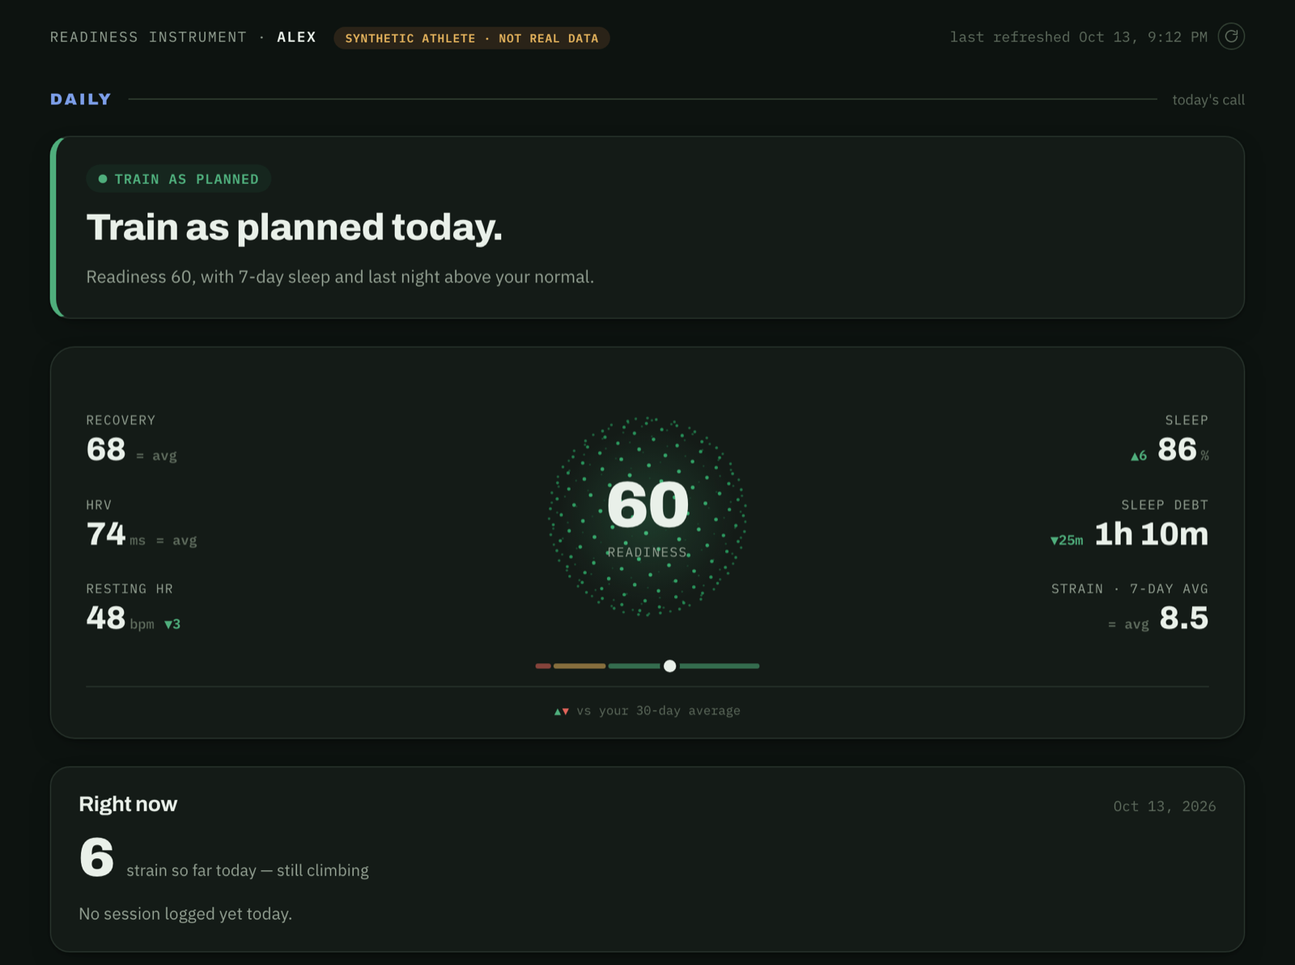
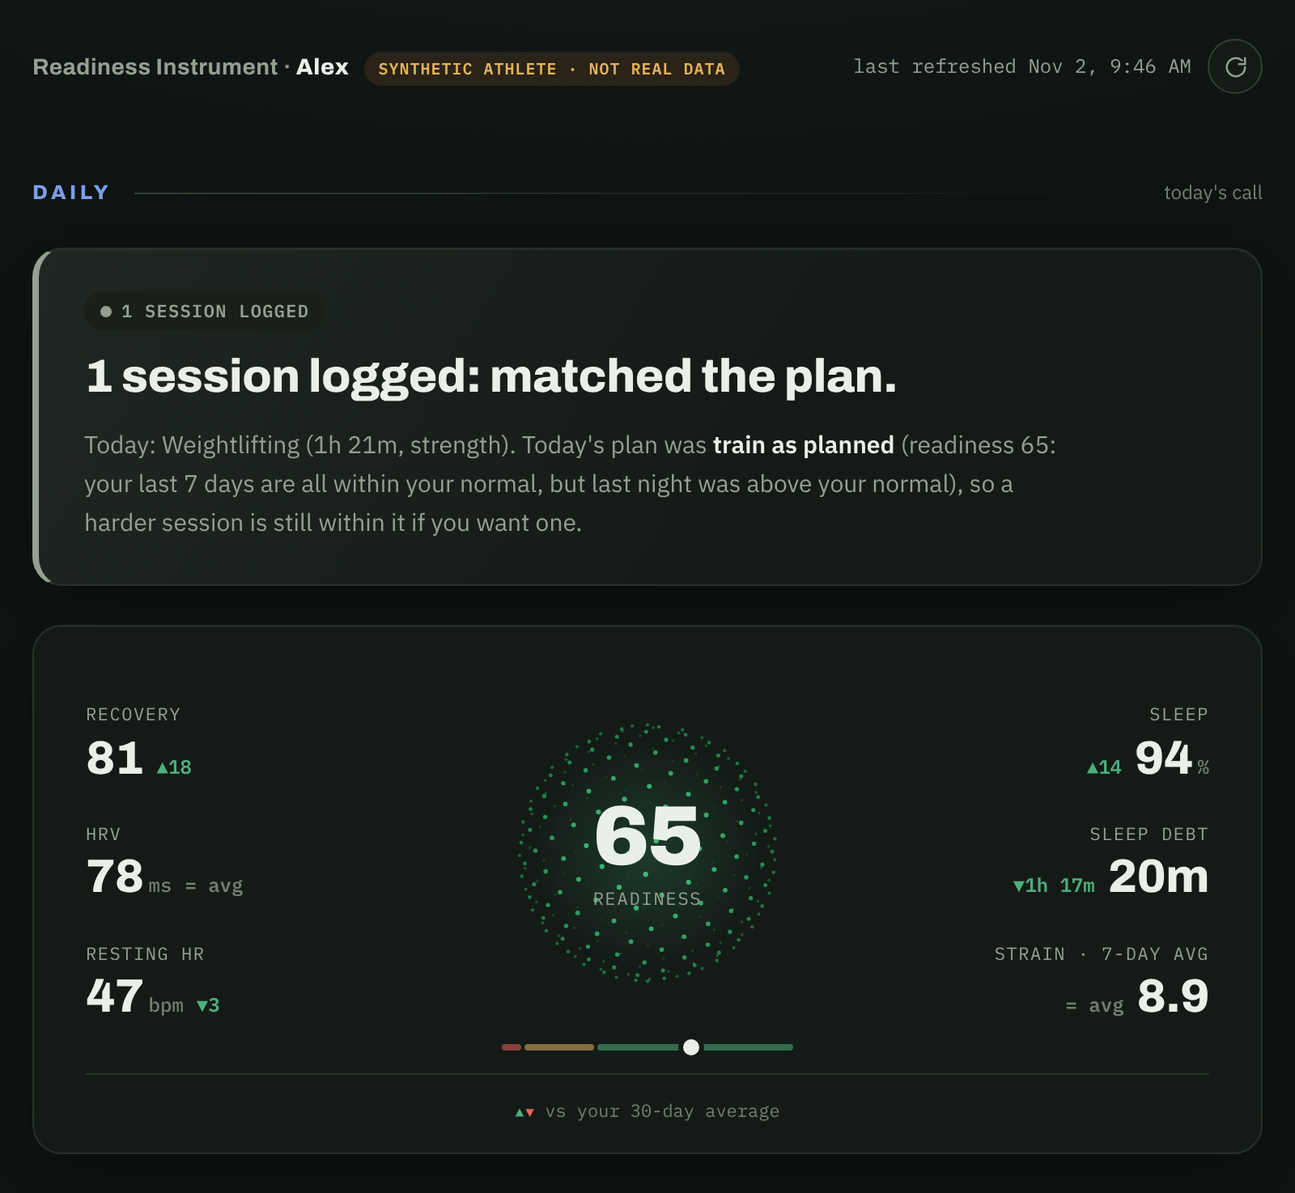
Refine the dark look: more room, larger type, softer cards
Same layout, tokens, fonts and zone colors; no new elements. Body text 15px,
section subtitles 13.5px and capped at a readable width, larger stat and record
numbers, card padding 24px with one shared radius, a quieter shadow, and a faint
accent glow behind the header. The decision card is tinted by its state color.
Faint ink is brighter so small labels are legible; tabs and the refresh button are
larger touch targets. Still no horizontal scroll at 390px. README screenshots
retaken from the synthetic athlete with reduced motion.

Claude-Session: https://claude.ai/code/session_01XKNuYiH2fS2Rk6CT6QNvY4

diff --git a/dashboard_template.html b/dashboard_template.html
@@ -11,7 +11,7 @@
     --surface-2:#182019;
     --ink:#E9F0E9;
     --ink-muted:#93A092;
-    --ink-faint:#5E6B5D;
+    --ink-faint:#717F70;
     --border:#26312A;
     --border-strong:#324033;
     --accent:#7C9EE8;
@@ -26,7 +26,9 @@
     --warn-bg:#2A2318;
     --critical:#E2645A;
     --critical-bg:#2B1A18;
-    --shadow: 0 1px 2px rgba(0,0,0,0.3), 0 8px 24px -12px rgba(0,0,0,0.5);
+    --shadow: inset 0 1px 0 rgba(233,240,233,0.035), 0 14px 34px -20px rgba(0,0,0,0.7);
+    --radius:18px;
+    --radius-sm:12px;
     --focus: 0 0 0 3px rgba(124,158,232,0.4);
   }
 
@@ -35,11 +37,13 @@
   .wrap > *{min-width:0;}
   body{
     background:var(--bg); color:var(--ink);
-    font-family:"IBM Plex Sans", ui-sans-serif, system-ui, sans-serif;
-    padding-inline:20px; padding-block:28px 64px;
+    background:radial-gradient(1100px 480px at 50% -200px, color-mix(in srgb, var(--accent) 8%, var(--bg)), var(--bg) 72%) no-repeat, var(--bg);
+    font-family:"IBM Plex Sans", ui-sans-serif, system-ui, sans-serif; font-size:15px; line-height:1.5;
+    padding-inline:20px; padding-block:32px 88px;
     -webkit-font-smoothing:antialiased;
   }
-  .wrap{max-width:960px;margin:0 auto;display:flex;flex-direction:column;gap:22px;}
+  .wrap{max-width:1000px;margin:0 auto;display:flex;flex-direction:column;gap:24px;}
+  @media (max-width:680px){body{padding-inline:16px;padding-block:22px 88px;}.wrap{gap:18px;}}
   /* one-time fade on load — a pure CSS animation, not JS-triggered, so the page
      is never at risk of staying invisible if some unrelated script fails */
   @keyframes fade-in-once{from{opacity:0;}to{opacity:1;}}
@@ -54,12 +58,12 @@
   .mono{font-family:"IBM Plex Mono", ui-monospace, monospace;}
   .tnum{font-variant-numeric:tabular-nums;}
 
-  header{display:flex;justify-content:space-between;align-items:baseline;gap:12px;flex-wrap:wrap;}
-  .eyebrow{font-family:"IBM Plex Mono", monospace;font-size:11.5px;letter-spacing:0.09em;text-transform:uppercase;color:var(--ink-muted);}
-  .eyebrow b{color:var(--ink);font-weight:600;}
+  header{display:flex;justify-content:space-between;align-items:center;gap:12px;flex-wrap:wrap;padding-bottom:6px;}
+  .eyebrow{font-family:"Archivo", sans-serif;font-weight:700;font-size:14px;letter-spacing:0.02em;color:var(--ink-muted);}
+  .eyebrow b{color:var(--ink);font-weight:800;}
   .beyond-badge.synthetic-badge{color:var(--warn);background:var(--warn-bg);margin-left:6px;}
   .beyond-badge{
-    display:inline-flex;align-items:center;font-family:"IBM Plex Mono",monospace;font-size:9.5px;font-weight:600;
+    display:inline-flex;align-items:center;font-family:"IBM Plex Mono",monospace;font-size:10px;font-weight:600;
     letter-spacing:0.05em;text-transform:uppercase;color:var(--accent);background:var(--accent-soft);
     border-radius:100px;padding:3px 9px;vertical-align:middle;
   }
@@ -71,11 +75,11 @@
   }
   .daytype-panel.open{opacity:1; transform:translateY(0) scale(1); pointer-events:auto;}
   .daytype-panel .dt-title{font-family:"Archivo",sans-serif;font-weight:800;font-size:13.5px;margin-bottom:2px;letter-spacing:-0.01em;}
-  .daytype-panel .dt-sub{font-size:11px;color:var(--ink-faint);margin-bottom:8px;}
+  .daytype-panel .dt-sub{font-size:11.5px;color:var(--ink-faint);margin-bottom:8px;}
   .dt-section{display:flex;justify-content:space-between;gap:10px;font-family:"IBM Plex Mono",monospace;font-size:9.5px;letter-spacing:0.08em;text-transform:uppercase;color:var(--ink-faint);margin:12px 0 2px;}
   .dt-row{display:flex;justify-content:space-between;align-items:baseline;gap:12px;padding:6px 0;border-bottom:1px solid var(--border);}
   .dt-row:last-child{border-bottom:none;}
-  .dt-row .k{font-size:11.5px;color:var(--ink-muted);}
+  .dt-row .k{font-size:12px;color:var(--ink-muted);}
   .dt-row .k{flex:0 1 auto;min-width:0;}
   .dt-row .v{font-family:"IBM Plex Mono",monospace;font-size:12px;font-weight:600;color:var(--ink);text-align:right;
     flex:0 1 auto;min-width:0;overflow-wrap:anywhere;}
@@ -95,15 +99,15 @@
   .wi-slider{width:100%;margin:8px 0 2px;accent-color:var(--accent);}
   .wi-scale{display:flex;justify-content:space-between;font-family:"IBM Plex Mono",monospace;
     font-size:10.5px;color:var(--ink-faint);}
-  .asof{font-family:"IBM Plex Mono", monospace;font-size:11.5px;color:var(--ink-faint);}
-  .asof-row{display:flex;align-items:center;gap:8px;}
+  .asof{font-family:"IBM Plex Mono", monospace;font-size:12px;color:var(--ink-muted);}
+  .asof-row{display:flex;align-items:center;gap:10px;}
   .refresh-btn{
-    width:22px;height:22px;padding:0;border-radius:50%;border:1px solid var(--border-strong);
-    background:none;color:var(--ink-faint);cursor:pointer;
+    width:34px;height:34px;padding:0;border-radius:50%;border:1px solid var(--border-strong);
+    background:var(--surface);color:var(--ink-muted);cursor:pointer;
     display:flex;align-items:center;justify-content:center;
     transition:color .15s ease, border-color .15s ease;
   }
-  .refresh-btn svg{width:12px;height:12px;}
+  .refresh-btn svg{width:15px;height:15px;}
   .refresh-btn:hover{color:var(--accent);border-color:var(--accent);}
   .refresh-btn:disabled{cursor:default;color:var(--ink-faint);border-color:var(--border-strong);}
   .refresh-btn.spinning svg{animation:refresh-spin 0.8s linear infinite;}
@@ -111,14 +115,15 @@
   .refresh-note{font-family:"IBM Plex Mono", monospace;font-size:11px;color:var(--critical);margin-top:2px;}
 
   .decision{
-    background:var(--surface); border:1px solid var(--border); border-radius:16px;
-    padding:22px 24px; box-shadow:var(--shadow);
-    display:flex; flex-direction:column; gap:10px;
-    border-left:5px solid var(--state-color, var(--accent));
+    background:var(--surface); border:1px solid var(--border); border-radius:var(--radius);
+    background:linear-gradient(120deg, color-mix(in srgb, var(--state-color, var(--accent)) 9%, var(--surface)), var(--surface) 60%);
+    padding:26px 28px; box-shadow:var(--shadow);
+    display:flex; flex-direction:column; gap:12px;
+    border-left:4px solid var(--state-color, var(--accent));
     position:relative;
   }
-  .decision h1{font-family:"Archivo", sans-serif;font-weight:800;font-size:clamp(21px, 3.6vw, 30px);line-height:1.22;margin:0;text-wrap:balance;letter-spacing:-0.01em;}
-  .decision .why{font-size:14px;color:var(--ink-muted);line-height:1.55;max-width:64ch;}
+  .decision h1{font-family:"Archivo", sans-serif;font-weight:800;font-size:clamp(22px, 3.6vw, 32px);line-height:1.2;margin:0;text-wrap:balance;letter-spacing:-0.01em;}
+  .decision .why{font-size:15px;color:var(--ink-muted);line-height:1.6;max-width:68ch;}
   .decision .why b{color:var(--ink);font-weight:600;}
   .state-pill{
     display:inline-flex;align-items:center;gap:6px;font-family:"IBM Plex Mono",monospace;
@@ -129,19 +134,19 @@
   .state-pill::before{content:"";width:7px;height:7px;border-radius:50%;background:currentColor;}
 
   .hero{
-    background:var(--surface); border:1px solid var(--border); border-radius:20px; box-shadow:var(--shadow);
-    padding:26px 28px 16px; display:grid; grid-template-columns:1fr minmax(220px,260px) 1fr;
+    background:var(--surface); border:1px solid var(--border); border-radius:var(--radius); box-shadow:var(--shadow);
+    padding:30px 32px 18px; display:grid; grid-template-columns:1fr minmax(220px,260px) 1fr;
     align-items:center; column-gap:24px; row-gap:14px;
   }
   .flank{display:flex;flex-direction:column;gap:22px;min-width:0;}
   .stat{display:flex;flex-direction:column;gap:2px;min-width:0;}
   .flank.right .stat{align-items:flex-end;text-align:right;}
-  .stat .label{font-family:"IBM Plex Mono",monospace;font-size:10.5px;letter-spacing:0.07em;text-transform:uppercase;color:var(--ink-muted);white-space:nowrap;}
+  .stat .label{font-family:"IBM Plex Mono",monospace;font-size:11px;letter-spacing:0.07em;text-transform:uppercase;color:var(--ink-muted);white-space:nowrap;}
   .stat .row{display:flex;align-items:baseline;gap:8px;}
   .flank.right .stat .row{flex-direction:row-reverse;}
-  .stat .value{font-family:"Archivo",sans-serif;font-weight:800;font-size:26px;line-height:1.15;letter-spacing:-0.01em;white-space:nowrap;}
-  .stat .value small{font-family:"IBM Plex Mono",monospace;font-size:11px;font-weight:500;color:var(--ink-faint);margin-left:3px;letter-spacing:0;}
-  .stat .delta{font-family:"IBM Plex Mono",monospace;font-size:11px;font-weight:600;white-space:nowrap;color:var(--ink-faint);}
+  .stat .value{font-family:"Archivo",sans-serif;font-weight:800;font-size:29px;line-height:1.15;letter-spacing:-0.01em;white-space:nowrap;}
+  .stat .value small{font-family:"IBM Plex Mono",monospace;font-size:12px;font-weight:500;color:var(--ink-faint);margin-left:3px;letter-spacing:0;}
+  .stat .delta{font-family:"IBM Plex Mono",monospace;font-size:12px;font-weight:600;white-space:nowrap;color:var(--ink-faint);}
   .stat .delta.good{color:var(--good);}
   .stat .delta.bad{color:var(--critical);}
   .ready-scale{width:180px;}
@@ -150,7 +155,7 @@
   .rs-seg.rest{background:var(--critical);} .rs-seg.easy{background:var(--warn);} .rs-seg.train{background:var(--accent);} .rs-seg.push{background:var(--good);}
   .rs-marker{position:absolute;top:50%;width:10px;height:10px;margin:-5px 0 0 -5px;border-radius:50%;background:var(--ink);box-shadow:0 0 0 3px var(--surface);transition:left .6s cubic-bezier(.2,.7,.2,1);}
   .hero-legend{grid-column:1 / -1;display:flex;justify-content:center;align-items:center;gap:8px;flex-wrap:wrap;
-    padding-top:12px;border-top:1px solid var(--border);font-family:"IBM Plex Mono",monospace;font-size:10px;color:var(--ink-faint);}
+    padding-top:14px;border-top:1px solid var(--border);font-family:"IBM Plex Mono",monospace;font-size:11px;color:var(--ink-faint);}
   .hero-legend b{font-weight:600;font-size:9px;} .hero-legend .up{color:var(--good);} .hero-legend .down{color:var(--critical);margin-left:1px;}
   @media (max-width:680px){
     .hero{grid-template-columns:1fr 1fr;padding:22px 18px 14px;column-gap:14px;}
@@ -162,39 +167,40 @@
   .orb-stage canvas{position:absolute;inset:0;width:100%;height:100%;}
   .orb-readout{position:absolute;inset:0;display:flex;flex-direction:column;align-items:center;justify-content:center;pointer-events:none;}
   .orb-readout .num{font-family:"Archivo",sans-serif;font-weight:900;font-size:52px;line-height:1;letter-spacing:-0.02em;color:var(--ink);}
-  .orb-readout .cap{font-family:"IBM Plex Mono",monospace;font-size:10.5px;letter-spacing:0.08em;text-transform:uppercase;color:var(--ink-muted);margin-top:4px;}
+  .orb-readout .cap{font-family:"IBM Plex Mono",monospace;font-size:11px;letter-spacing:0.08em;text-transform:uppercase;color:var(--ink-muted);margin-top:4px;}
 
   input[type="range"]{-webkit-appearance:none;appearance:none;width:100%;height:4px;border-radius:2px;background:var(--border-strong);outline-offset:4px;}
   input[type="range"]::-webkit-slider-thumb{-webkit-appearance:none;appearance:none;width:15px;height:15px;border-radius:50%;background:var(--accent);border:2px solid var(--surface);box-shadow:0 0 0 1px var(--border-strong);cursor:pointer;}
   input[type="range"]::-moz-range-thumb{width:15px;height:15px;border-radius:50%;background:var(--accent);border:2px solid var(--surface);cursor:pointer;}
 
-  .section-head{display:flex;align-items:baseline;justify-content:space-between;gap:10px;margin-bottom:10px;flex-wrap:wrap;}
-  .section-head h2{font-family:"Archivo",sans-serif;font-size:17px;font-weight:700;margin:0;letter-spacing:-0.01em;}
-  .section-head .n{font-family:"IBM Plex Mono",monospace;font-size:11.5px;color:var(--ink-faint);}
+  .section-head{display:flex;align-items:baseline;justify-content:space-between;gap:10px;margin-bottom:8px;flex-wrap:wrap;}
+  .section-head h2{font-family:"Archivo",sans-serif;font-size:19px;font-weight:700;margin:0;letter-spacing:-0.01em;}
+  .section-head .n{font-family:"IBM Plex Mono",monospace;font-size:12px;color:var(--ink-faint);}
   /* a badge straight after the title sits beside it, the same on every card */
   .section-head > h2 + .beyond-badge{margin-right:auto;}
-  .section-sub{font-size:12.5px;color:var(--ink-muted);margin-top:2px;margin-bottom:10px;line-height:1.5;}
+  .section-sub{font-size:13.5px;color:var(--ink-muted);margin-top:0;margin-bottom:16px;line-height:1.6;max-width:76ch;}
 
-  .card{background:var(--surface);border:1px solid var(--border);border-radius:16px;padding:20px 22px;box-shadow:var(--shadow);}
-  @media (max-width:680px){.card{padding:18px;}}
+  .card{background:var(--surface);border:1px solid var(--border);border-radius:var(--radius);padding:24px 26px;box-shadow:var(--shadow);}
+  @media (max-width:680px){.card{padding:20px 18px;}}
 
   /* ---- pill tabs ---- */
   .tabs{display:flex;gap:6px;flex-wrap:wrap;}
   .tab{
-    font-family:"IBM Plex Mono",monospace;font-size:11.5px;color:var(--ink-muted);
+    font-family:"IBM Plex Mono",monospace;font-size:12px;color:var(--ink-muted);
     background:var(--surface-2);border:1px solid var(--border);border-radius:100px;
-    padding:5px 12px;cursor:pointer;white-space:nowrap;
+    padding:7px 14px;cursor:pointer;white-space:nowrap;transition:border-color .15s ease, color .15s ease;
   }
+  .tab:hover{border-color:var(--border-strong);color:var(--ink);}
   .tab.active{background:var(--accent);border-color:var(--accent);color:var(--accent-ink);font-weight:600;}
 
   /* ---- explorer chart ---- */
   .range-tabs{display:flex;gap:4px;}
-  .rtab{font-family:"IBM Plex Mono",monospace;font-size:11px;color:var(--ink-muted);background:none;border:1px solid var(--border-strong);border-radius:100px;padding:4px 10px;cursor:pointer;}
+  .rtab{font-family:"IBM Plex Mono",monospace;font-size:11.5px;color:var(--ink-muted);background:none;border:1px solid var(--border-strong);border-radius:100px;padding:6px 12px;cursor:pointer;}
   .rtab.active{background:var(--ink);color:var(--surface);border-color:var(--ink);}
-  .explorer-stats{display:flex;gap:18px;margin:10px 0 2px;flex-wrap:wrap;}
+  .explorer-stats{display:flex;gap:24px;margin:14px 0 4px;flex-wrap:wrap;}
   .explorer-stats .es{display:flex;flex-direction:column;gap:1px;}
-  .explorer-stats .es .k{font-size:10.5px;text-transform:uppercase;letter-spacing:0.06em;color:var(--ink-faint);}
-  .explorer-stats .es .v{font-family:"Archivo",sans-serif;font-weight:800;font-size:19px;}
+  .explorer-stats .es .k{font-size:11px;text-transform:uppercase;letter-spacing:0.06em;color:var(--ink-faint);}
+  .explorer-stats .es .v{font-family:"Archivo",sans-serif;font-weight:800;font-size:22px;}
   .chart-wrap{position:relative;width:100%;}
   .chart-wrap svg{width:100%;height:auto;display:block;overflow:visible;}
   .chart-empty-msg{font-size:12.5px;color:var(--ink-faint);padding:20px 0;text-align:center;}
@@ -206,8 +212,8 @@
   .axis-label{font-family:"IBM Plex Mono",monospace;font-size:10px;fill:var(--ink-faint);font-variant-numeric:tabular-nums;}
   .axis-label.end-label{fill:var(--ink);font-weight:600;font-size:11px;}
   .chart-tooltip b{font-weight:600;}
-  .legend{display:flex;gap:14px;flex-wrap:wrap;margin-top:8px;}
-  .legend .li{display:flex;align-items:center;gap:6px;font-size:11.5px;color:var(--ink-muted);}
+  .legend{display:flex;gap:16px;flex-wrap:wrap;margin-top:10px;}
+  .legend .li{display:flex;align-items:center;gap:6px;font-size:12px;color:var(--ink-muted);}
   .legend .sw{width:9px;height:9px;border-radius:2px;}
 
   /* ---- recovery heatmap ---- */
@@ -225,18 +231,18 @@
 
   /* ---- right now (today) ---- */
   .rn-strain-row{display:flex;align-items:baseline;gap:10px;margin:6px 0 4px;flex-wrap:wrap;}
-  .rn-strain-num{font-family:"Archivo",sans-serif;font-weight:900;font-size:44px;letter-spacing:-0.02em;color:var(--ink);}
-  .rn-strain-label{font-size:13px;color:var(--ink-muted);}
+  .rn-strain-num{font-family:"Archivo",sans-serif;font-weight:900;font-size:48px;letter-spacing:-0.02em;color:var(--ink);}
+  .rn-strain-label{font-size:14px;color:var(--ink-muted);}
   .rn-empty{font-size:13.5px;color:var(--ink-muted);padding:8px 0 2px;}
   .rn-tabs{display:flex;gap:6px;flex-wrap:wrap;margin:10px 0 14px;}
-  .rn-session{background:var(--surface-2);border:1px solid var(--border);border-radius:14px;padding:16px 18px;display:flex;flex-direction:column;gap:12px;}
+  .rn-session{background:var(--surface-2);border:1px solid var(--border);border-radius:var(--radius-sm);padding:18px 20px;display:flex;flex-direction:column;gap:12px;}
   .rn-session .rn-head{display:flex;justify-content:space-between;align-items:baseline;flex-wrap:wrap;gap:8px;}
   .rn-session .rn-sport{font-family:"Archivo",sans-serif;font-weight:800;font-size:18px;letter-spacing:-0.01em;}
   .rn-session .rn-time{font-family:"IBM Plex Mono",monospace;font-size:12px;color:var(--ink-faint);}
   .rn-stat-grid{display:grid;grid-template-columns:repeat(auto-fit,minmax(90px,1fr));gap:12px;}
   .rn-stat{display:flex;flex-direction:column;gap:2px;}
-  .rn-stat .k{font-size:10px;text-transform:uppercase;letter-spacing:0.05em;color:var(--ink-faint);}
-  .rn-stat .v{font-family:"Archivo",sans-serif;font-weight:700;font-size:19px;letter-spacing:-0.01em;}
+  .rn-stat .k{font-size:10.5px;text-transform:uppercase;letter-spacing:0.05em;color:var(--ink-faint);}
+  .rn-stat .v{font-family:"Archivo",sans-serif;font-weight:700;font-size:21px;letter-spacing:-0.01em;}
   .rn-zonebar{display:flex;height:10px;border-radius:5px;overflow:hidden;border:1px solid var(--border);}
   .rn-zonebar span{height:100%;}
   .rn-zone-legend{display:flex;gap:14px;flex-wrap:wrap;}
@@ -245,46 +251,46 @@
 
   /* ---- records grid ---- */
   /* one card, no hairlines: a short last row leaves plain surface, never a grey block */
-  .records-grid{display:grid;grid-template-columns:repeat(5,1fr);background:var(--surface);border:1px solid var(--border);border-radius:16px;overflow:hidden;box-shadow:var(--shadow);}
+  .records-grid{display:grid;grid-template-columns:repeat(5,1fr);background:var(--surface);border:1px solid var(--border);border-radius:var(--radius);overflow:hidden;box-shadow:var(--shadow);}
   @media (max-width:860px){.records-grid{grid-template-columns:repeat(3,1fr);}}
   @media (max-width:560px){.records-grid{grid-template-columns:repeat(2,1fr);}}
-  .record-tile{background:var(--surface);padding:16px 18px;display:flex;flex-direction:column;gap:3px;min-width:0;}
-  .record-tile .k{font-size:10.5px;text-transform:uppercase;letter-spacing:0.05em;color:var(--ink-faint);}
-  .record-tile .v{font-family:"Archivo",sans-serif;font-weight:800;font-size:21px;letter-spacing:-0.01em;white-space:nowrap;}
-  .record-tile .d{font-size:11px;color:var(--ink-muted);}
+  .record-tile{background:var(--surface);padding:18px 20px;display:flex;flex-direction:column;gap:3px;min-width:0;}
+  .record-tile .k{font-size:11px;text-transform:uppercase;letter-spacing:0.05em;color:var(--ink-faint);}
+  .record-tile .v{font-family:"Archivo",sans-serif;font-weight:800;font-size:23px;letter-spacing:-0.01em;white-space:nowrap;}
+  .record-tile .d{font-size:12px;color:var(--ink-muted);}
 
   /* ---- training log table ---- */
-  .log-scroll{max-height:440px;overflow:auto;border:1px solid var(--border);border-radius:16px;background:var(--surface);box-shadow:var(--shadow);}
-  table.log{width:100%;min-width:560px;border-collapse:collapse;font-size:12.5px;}
+  .log-scroll{max-height:480px;overflow:auto;border:1px solid var(--border);border-radius:var(--radius);background:var(--surface);box-shadow:var(--shadow);}
+  table.log{width:100%;min-width:560px;border-collapse:collapse;font-size:13px;}
   table.log td, table.log th{white-space:nowrap;}
   table.log thead th{
     position:sticky;top:0;background:var(--surface-2);text-align:left;font-family:"IBM Plex Mono",monospace;
     font-size:10.5px;text-transform:uppercase;letter-spacing:0.04em;color:var(--ink-muted);
-    padding:9px 12px;border-bottom:1px solid var(--border);
+    padding:11px 14px;border-bottom:1px solid var(--border);
   }
-  table.log td{padding:8px 12px;border-bottom:1px solid var(--border);color:var(--ink);}
+  table.log td{padding:10px 14px;border-bottom:1px solid var(--border);color:var(--ink);}
   table.log tbody tr:hover{background:var(--surface-2);}
   table.log th.num, table.log td.num{text-align:right;}
   table.log td.num{font-family:"IBM Plex Mono",monospace;}
   table.log td.sport{color:var(--ink-muted);}
 
   /* ---- cadence group headers ---- */
-  .group-header{display:flex;align-items:center;gap:12px;margin-top:8px;}
-  .group-header .glabel{font-family:"Archivo",sans-serif;font-weight:900;font-size:13px;letter-spacing:0.14em;text-transform:uppercase;color:var(--accent);white-space:nowrap;}
-  .group-header .grule{flex:1;height:1px;background:var(--border-strong);}
-  .group-header .gcaption{font-size:11.5px;color:var(--ink-faint);white-space:nowrap;}
+  .group-header{display:flex;align-items:center;gap:14px;margin-top:20px;}
+  .group-header .glabel{font-family:"Archivo",sans-serif;font-weight:800;font-size:12.5px;letter-spacing:0.18em;text-transform:uppercase;color:var(--accent);white-space:nowrap;}
+  .group-header .grule{flex:1;height:1px;background:linear-gradient(90deg, var(--border-strong), transparent);}
+  .group-header .gcaption{font-size:12px;color:var(--ink-faint);white-space:nowrap;}
 
   /* ---- signal callouts ---- */
-  .signal-grid{display:grid;grid-template-columns:1fr 1fr;gap:14px;}
+  .signal-grid{display:grid;grid-template-columns:1fr 1fr;gap:12px;}
   @media (max-width:680px){.signal-grid{grid-template-columns:1fr;}}
-  .signal{display:flex;gap:10px;align-items:flex-start;padding:13px 15px;border-radius:12px;border:1px solid var(--border);background:var(--surface-2);}
+  .signal{display:flex;gap:12px;align-items:flex-start;padding:15px 17px;border-radius:var(--radius-sm);border:1px solid var(--border);background:var(--surface-2);}
   /* tinted tiles keep their colour but only half-strength edges, so four of them don't shout */
   .signal.ok{border-color:var(--good);border-color:color-mix(in srgb, var(--good) 45%, var(--border));background:var(--good-bg);}
   .signal.warn{border-color:var(--warn);border-color:color-mix(in srgb, var(--warn) 45%, var(--border));background:var(--warn-bg);}
-  .signal .dot{width:8px;height:8px;border-radius:50%;margin-top:5px;flex-shrink:0;background:var(--ink-faint);}
+  .signal .dot{width:8px;height:8px;border-radius:50%;margin-top:7px;flex-shrink:0;background:var(--ink-faint);}
   .signal.ok .dot{background:var(--good);}
   .signal.warn .dot{background:var(--warn);}
-  .signal .txt{font-size:12.5px;line-height:1.55;color:var(--ink);}
+  .signal .txt{font-size:13.5px;line-height:1.6;color:var(--ink);}
   .signal .txt b{font-weight:600;}
 
   /* ---- zone badge ---- */
@@ -293,7 +299,7 @@
   .metric-row{display:flex;align-items:baseline;gap:14px;flex-wrap:wrap;margin:10px 0;}
   .metric-row .big{font-family:"Archivo",sans-serif;font-weight:800;font-size:28px;}
   .range-legend{display:flex;flex-wrap:wrap;gap:14px;margin:4px 0 14px;}
-  .range-legend .rl-item{display:flex;align-items:center;gap:6px;font-size:11.5px;color:var(--ink-muted);}
+  .range-legend .rl-item{display:flex;align-items:center;gap:6px;font-size:12px;color:var(--ink-muted);}
   .range-legend .rl-dot{width:8px;height:8px;border-radius:50%;flex-shrink:0;}
 
   /* ---- diverging bars (sport recovery cost) ---- */
@@ -302,7 +308,7 @@
   .more-sports summary::-webkit-details-marker{display:none;}
   .more-sports summary::before{content:"▸ ";} .more-sports[open] summary::before{content:"▾ ";}
   .div-row{display:grid;grid-template-columns:124px 1fr 60px;align-items:center;gap:10px;padding:8px 0;}
-  .div-row .name{font-size:12.5px;color:var(--ink);display:flex;flex-direction:column;gap:1px;}
+  .div-row .name{font-size:13px;color:var(--ink);display:flex;flex-direction:column;gap:1px;}
   .div-row .name .sub{font-family:"IBM Plex Mono",monospace;font-size:10px;color:var(--ink-faint);}
   .div-track{display:block;position:relative;height:10px;background:var(--surface-2);border:1px solid var(--border);border-radius:5px;}
   .div-track .zero{position:absolute;top:-3px;bottom:-3px;width:1px;background:var(--border-strong);}
@@ -310,9 +316,9 @@
   .div-row .val{font-family:"IBM Plex Mono",monospace;font-size:11.5px;text-align:right;}
   .div-row .val .n{color:var(--ink-faint);font-size:10px;display:block;}
 
-  footer{display:flex;flex-direction:column;gap:10px;font-size:12.5px;color:var(--ink-muted);line-height:1.6;border-top:1px solid var(--border);padding-top:18px;}
+  footer{display:flex;flex-direction:column;gap:12px;font-size:13px;color:var(--ink-muted);line-height:1.6;border-top:1px solid var(--border);padding-top:18px;}
   footer .grp{display:flex;flex-direction:column;gap:2px;}
-  footer .grp b{color:var(--ink);font-weight:600;font-size:12.5px;}
+  footer .grp b{color:var(--ink);font-weight:600;font-size:13px;}
 
   @media (prefers-reduced-motion: reduce){* { animation-duration: 0.001ms !important; animation-iteration-count: 1 !important; transition-duration: 0.001ms !important; }}
 
